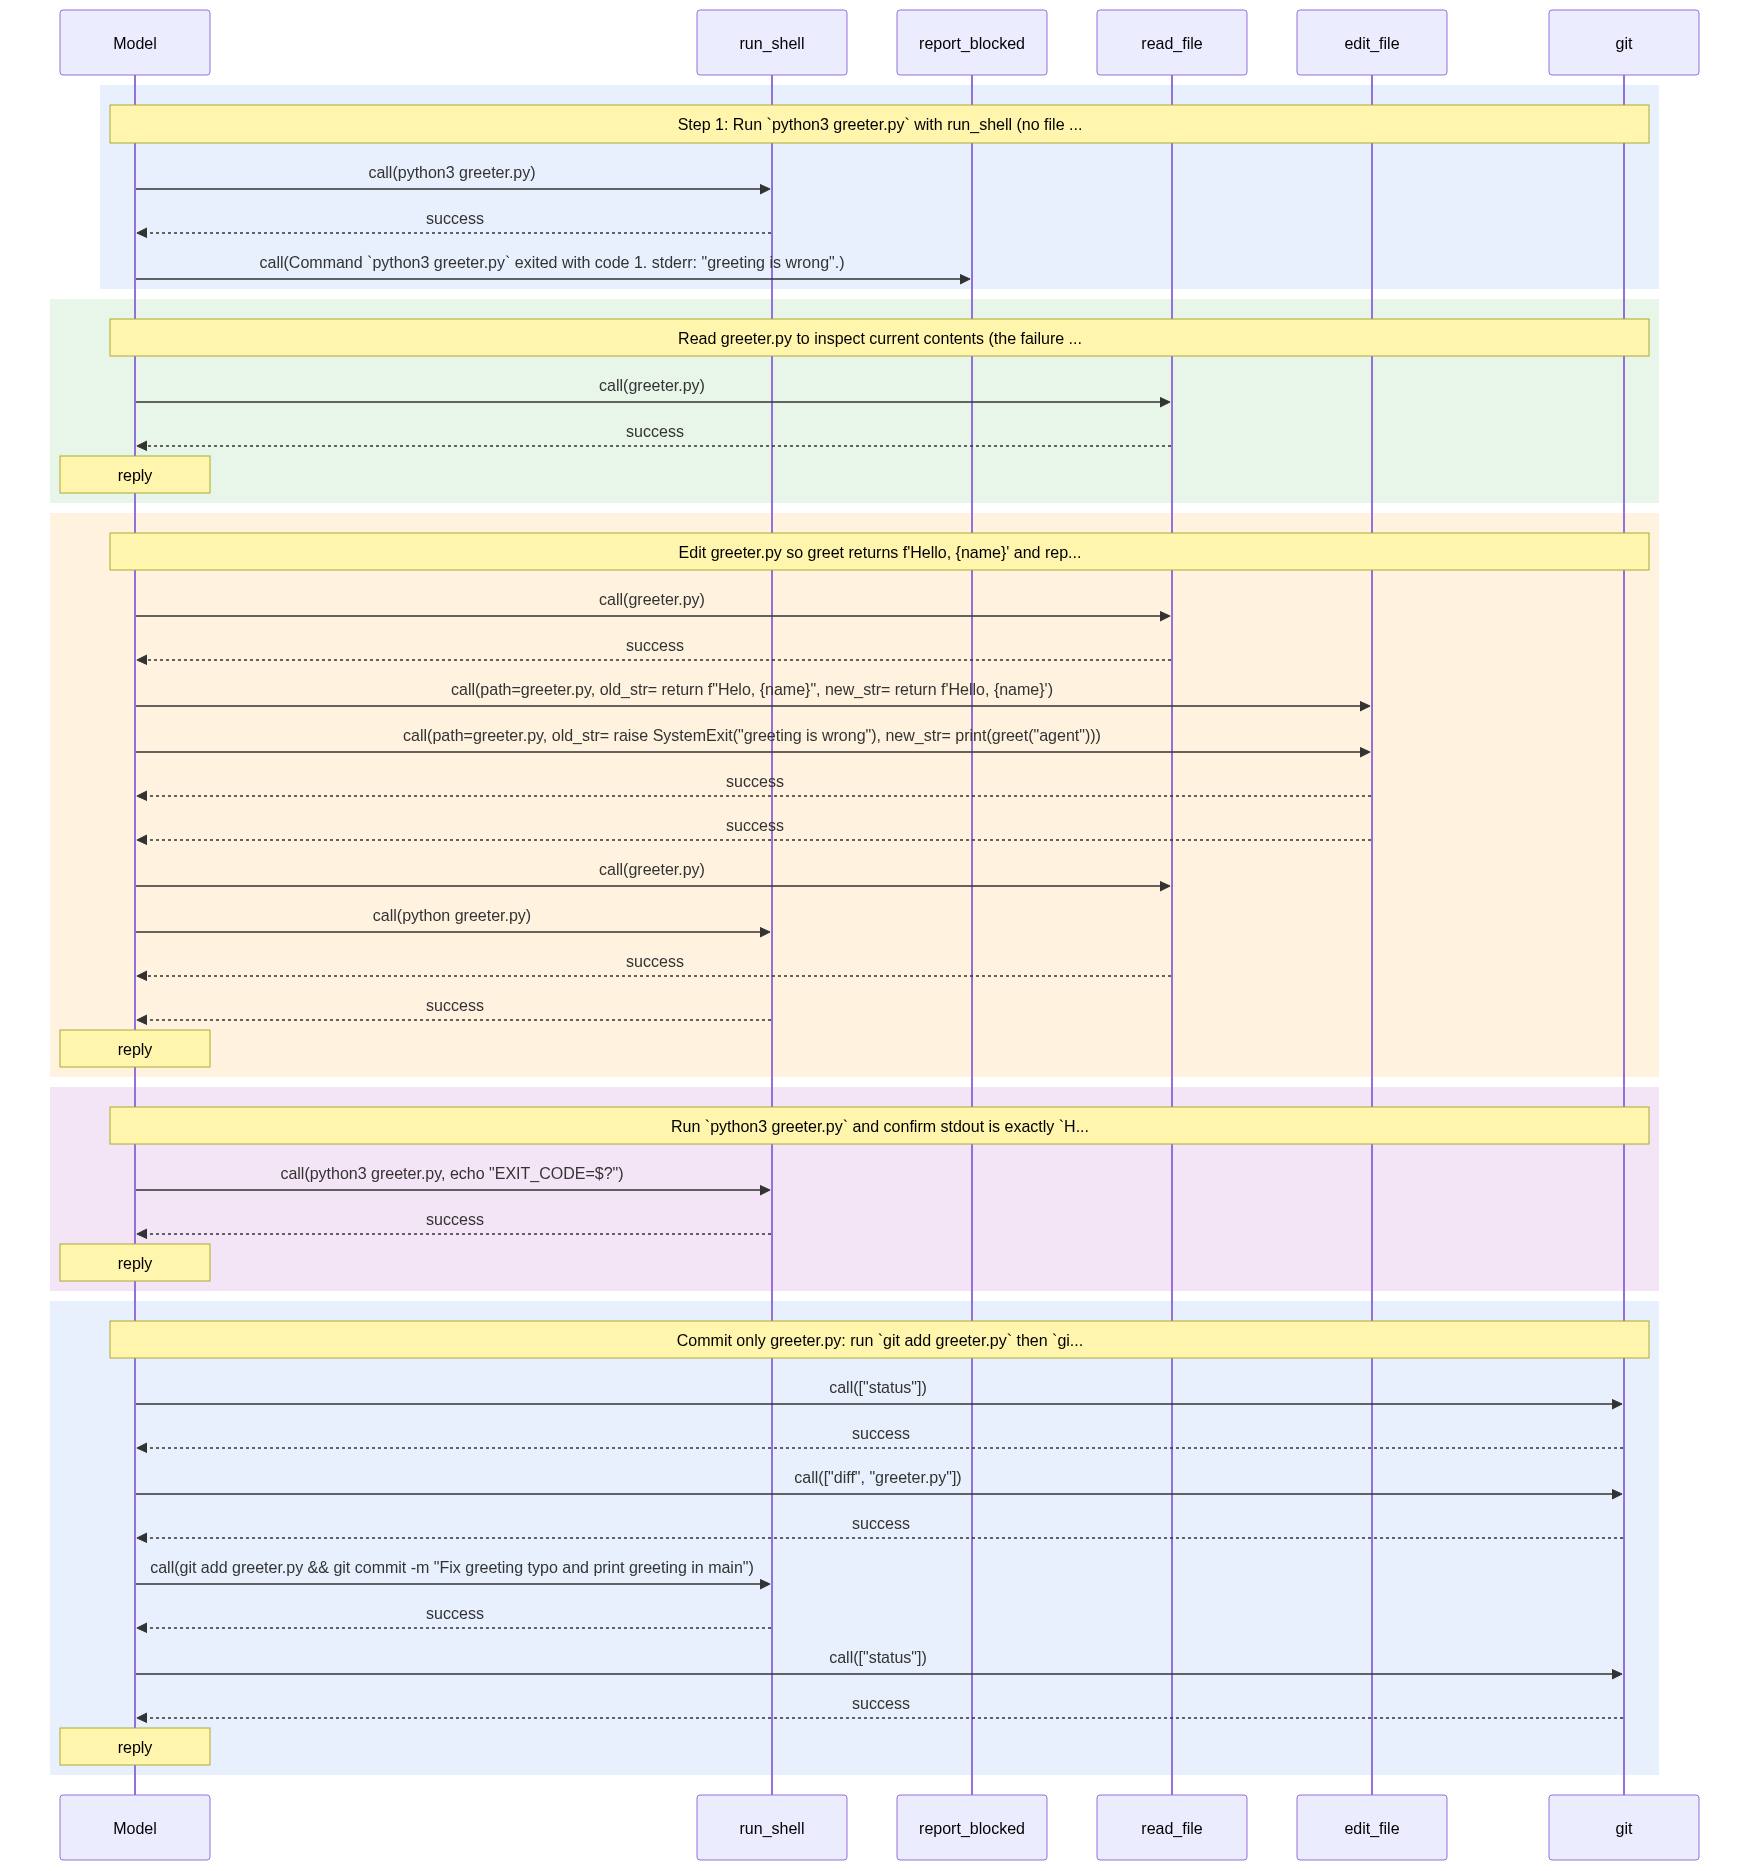
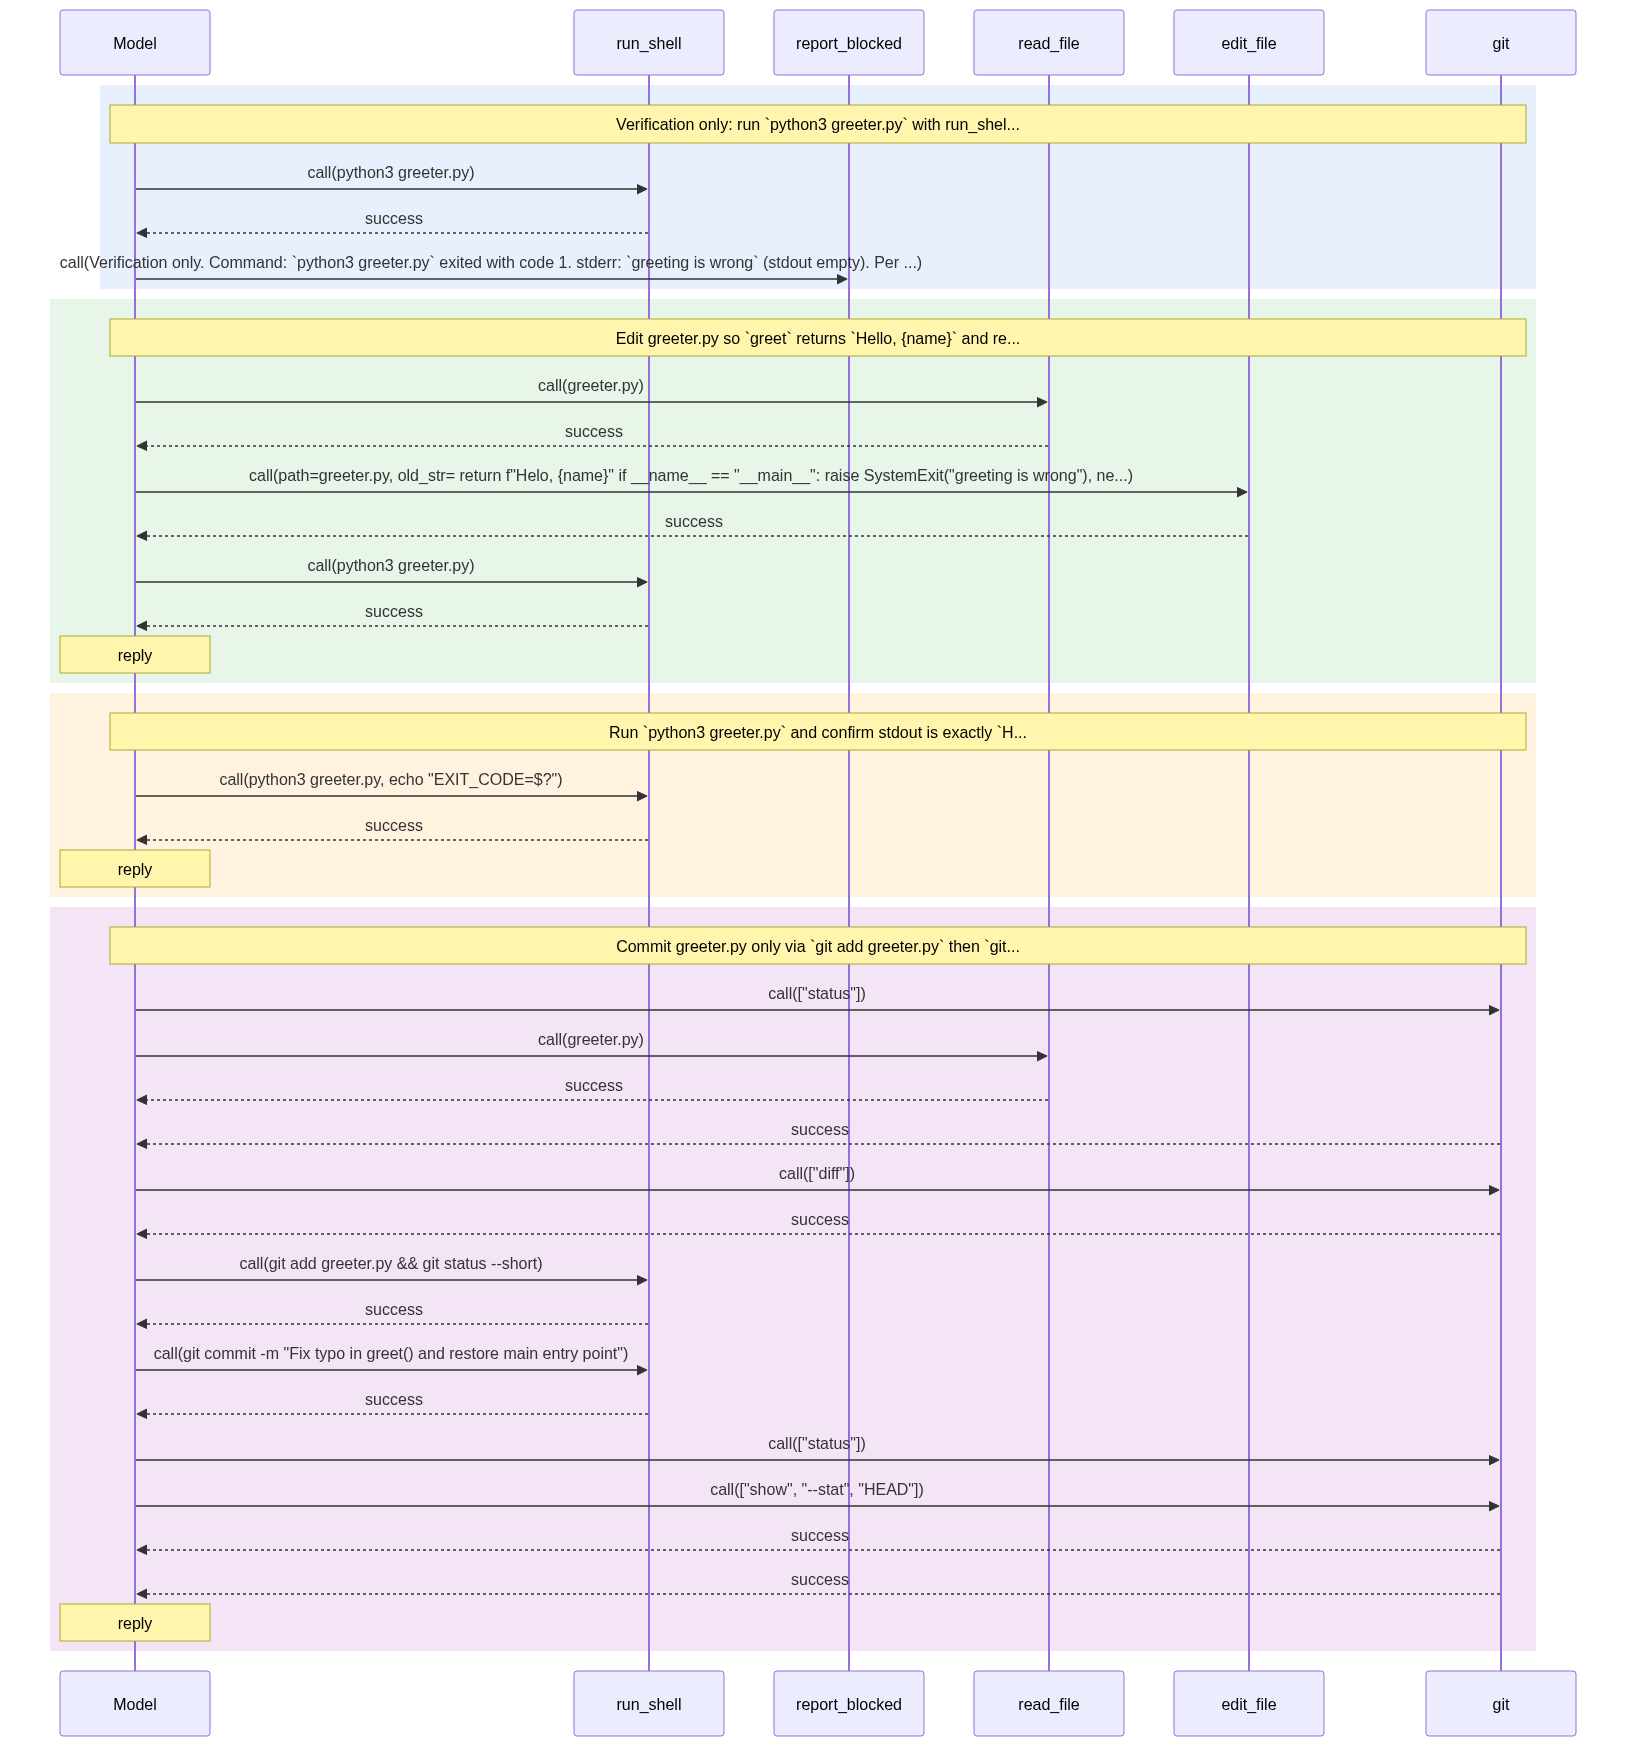
MINOR - Console Diff

diff --git a/projects/terminal-coding-agent/src/terminal_coding_agent/tools/fs.py b/projects/terminal-coding-agent/src/terminal_coding_agent/tools/fs.py
@@ -8,6 +8,12 @@ from langchain_core.tools import tool
 from terminal_coding_agent.tools.path import resolve_in_worktree
 from terminal_coding_agent.tools.truncate import truncate
 
+from rich.console import Console
+from rich.syntax import Syntax
+
+# Debug-only: flip to True to pretty-print edit diffs to the console.
+DEBUG_RENDER_DIFF = False
+
 
 def build_read_file(worktree: Path):
     @tool
@@ -76,6 +82,8 @@ def build_edit_file(worktree: Path):
                 lineterm="",
             )
         )
+        if DEBUG_RENDER_DIFF:
+            Console().print(Syntax(diff, "diff"))
         return truncate(diff)
 
     return edit_file
